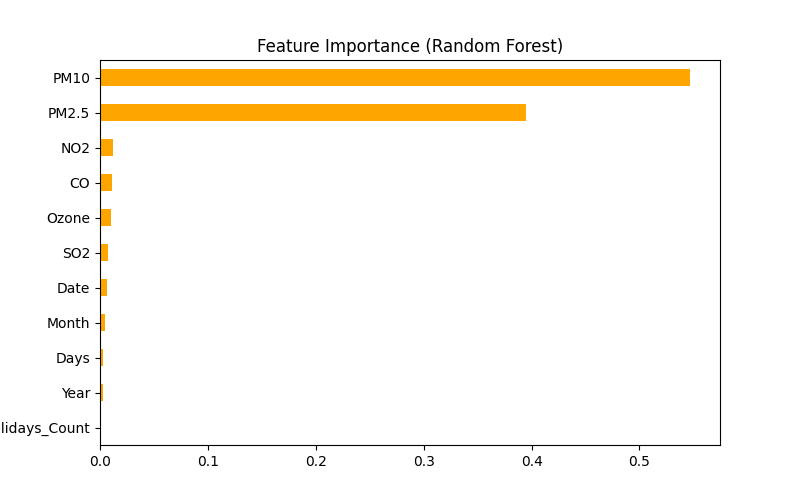
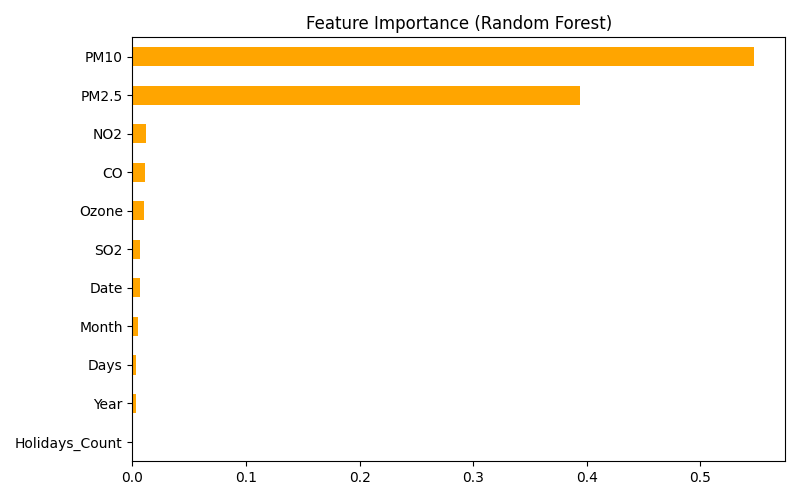
Added visualization saving feature

diff --git a/air quality prediction.py b/air quality prediction.py
@@ -1,5 +1,5 @@
 # --------------------------------------------------------
-# 🌤 AIR QUALITY INDEX (AQI) PREDICTION - Final Version
+# 🌤 AIR QUALITY INDEX (AQI) PREDICTION - Final Enhanced Version
 # --------------------------------------------------------
 
 import pandas as pd
@@ -9,6 +9,9 @@ import seaborn as sns
 from sklearn.model_selection import train_test_split
 from sklearn.ensemble import RandomForestRegressor
 from sklearn.metrics import mean_absolute_error, mean_squared_error, r2_score
+from xgboost import XGBRegressor
+import warnings
+warnings.filterwarnings('ignore')
 
 # -----------------------------
 # STEP 1: Load the Dataset
@@ -45,8 +48,8 @@ plt.show()
 # -----------------------------
 # STEP 4: Feature Selection
 # -----------------------------
-# Features and target
-X = df[['Date', 'Month', 'Year', 'Holidays_Count', 'Days', 'PM2.5', 'PM10', 'NO2', 'SO2', 'CO', 'Ozone']]
+X = df[['Date', 'Month', 'Year', 'Holidays_Count', 'Days',
+        'PM2.5', 'PM10', 'NO2', 'SO2', 'CO', 'Ozone']]
 y = df['AQI']
 
 # -----------------------------
@@ -57,60 +60,112 @@ X_train, X_test, y_train, y_test = train_test_split(
 )
 
 # -----------------------------
-# STEP 6: Train Model
+# STEP 6A: Train Random Forest
 # -----------------------------
-model = RandomForestRegressor(n_estimators=200, random_state=42)
-model.fit(X_train, y_train)
-
-print("\n✅ Model trained successfully!")
-
-# -----------------------------
-# STEP 7: Evaluate Model
-# -----------------------------
-y_pred = model.predict(X_test)
-
-mae = mean_absolute_error(y_test, y_pred)
-rmse = np.sqrt(mean_squared_error(y_test, y_pred))
-r2 = r2_score(y_test, y_pred)
-
-print("\n📈 Model Performance:")
-print(f"MAE  : {mae:.2f}")
-print(f"RMSE : {rmse:.2f}")
-print(f"R²   : {r2:.2f}")
+print("\n🌳 Training Random Forest...")
+rf_model = RandomForestRegressor(n_estimators=200, random_state=42)
+rf_model.fit(X_train, y_train)
+y_pred_rf = rf_model.predict(X_test)
 
 # -----------------------------
-# STEP 8: Visualizations
+# STEP 6B: Train XGBoost Model
 # -----------------------------
-# Instead of only showing plots, also save them
-plt.figure(figsize=(10,6))
-sns.heatmap(df.corr(), annot=True, cmap='coolwarm', fmt=".2f")
-plt.title("Correlation Heatmap of Air Quality Features")
-plt.savefig("assets/heatmap.png")   # ✅ saves image
-plt.show()
+print("\n⚡ Training XGBoost Model...")
+xgb_model = XGBRegressor(
+    n_estimators=300,
+    learning_rate=0.05,
+    max_depth=6,
+    subsample=0.8,
+    colsample_bytree=0.8,
+    random_state=42
+)
+xgb_model.fit(X_train, y_train)
+y_pred_xgb = xgb_model.predict(X_test)
 
-plt.figure(figsize=(8,5))
-plt.scatter(y_test, y_pred, color="teal", alpha=0.7)
-plt.xlabel("Actual AQI")
-plt.ylabel("Predicted AQI")
-plt.title("Actual vs Predicted AQI")
-plt.grid(True)
-plt.savefig("assets/scatter.png")   # ✅ saves image
-plt.show()
+# -----------------------------
+# STEP 7: Model Evaluation
+# -----------------------------
+def evaluate_model(y_true, y_pred, name):
+    mae = mean_absolute_error(y_true, y_pred)
+    rmse = np.sqrt(mean_squared_error(y_true, y_pred))
+    r2 = r2_score(y_true, y_pred)
+    print(f"\n📈 {name} Performance:")
+    print(f"MAE  : {mae:.2f}")
+    print(f"RMSE : {rmse:.2f}")
+    print(f"R²   : {r2:.2f}")
+    return {'Model': name, 'MAE': mae, 'RMSE': rmse, 'R2': r2}
 
-importances = pd.Series(model.feature_importances_, index=X.columns)
+rf_results = evaluate_model(y_test, y_pred_rf, "Random Forest")
+xgb_results = evaluate_model(y_test, y_pred_xgb, "XGBoost")
+
+# Compare results
+results_df = pd.DataFrame([rf_results, xgb_results])
+print("\n🔍 Model Comparison:")
+print(results_df)
+
+# -----------------------------
+# STEP 8: Feature Importance
+# -----------------------------
+importances = pd.Series(rf_model.feature_importances_, index=X.columns)
 importances.sort_values(ascending=True).plot(kind="barh", color="orange", figsize=(8,5))
 plt.title("Feature Importance (Random Forest)")
-plt.savefig("assets/feature_importance.png")   # ✅ saves image
+plt.tight_layout()
+plt.savefig("assets/feature_importance.png")
 plt.show()
 
-# Feature importance
-importances = pd.Series(model.feature_importances_, index=X.columns)
-importances.sort_values(ascending=True).plot(kind="barh", color="orange", figsize=(8, 5))
-plt.title("Feature Importance (Random Forest)")
+# -----------------------------
+# STEP 9: LSTM Time-Series Forecasting
+# -----------------------------
+print("\n⏳ Building LSTM model for time-series AQI forecasting...")
+
+from tensorflow.keras.models import Sequential
+from tensorflow.keras.layers import LSTM, Dense
+from sklearn.preprocessing import MinMaxScaler
+
+# Sort by date if available
+df['Date'] = pd.to_datetime(df['Date'], errors='coerce')
+df = df.dropna(subset=['Date'])
+df = df.sort_values('Date')
+
+scaler = MinMaxScaler()
+scaled_aqi = scaler.fit_transform(df[['AQI']])
+
+def create_sequences(data, seq_length=10):
+    X, y = [], []
+    for i in range(len(data) - seq_length):
+        X.append(data[i:i+seq_length])
+        y.append(data[i+seq_length])
+    return np.array(X), np.array(y)
+
+seq_length = 10
+X_seq, y_seq = create_sequences(scaled_aqi, seq_length)
+split = int(0.8 * len(X_seq))
+X_train_seq, X_test_seq = X_seq[:split], X_seq[split:]
+y_train_seq, y_test_seq = y_seq[:split], y_seq[split:]
+
+# Define LSTM model
+model = Sequential([
+    LSTM(64, activation='relu', input_shape=(seq_length, 1)),
+    Dense(1)
+])
+model.compile(optimizer='adam', loss='mse')
+model.fit(X_train_seq, y_train_seq, epochs=25, batch_size=16, validation_data=(X_test_seq, y_test_seq), verbose=1)
+
+# Predictions
+y_pred_lstm = model.predict(X_test_seq)
+y_pred_lstm = scaler.inverse_transform(y_pred_lstm)
+y_test_inv = scaler.inverse_transform(y_test_seq)
+
+# Plot results
+plt.figure(figsize=(10,5))
+plt.plot(y_test_inv, label='Actual AQI', color='blue')
+plt.plot(y_pred_lstm, label='Predicted AQI (LSTM)', color='red')
+plt.title("LSTM Time-Series AQI Forecasting")
+plt.xlabel("Days")
+plt.ylabel("AQI")
+plt.legend()
+plt.tight_layout()
+plt.savefig("assets/lstm_forecast.png")
 plt.show()
 
-print("\n🎯 Done! Air Quality Prediction Project executed successfully.")
-import matplotlib
-matplotlib.use('TkAgg')  # ensure GUI backend
-plt.show(block=True)
-
+print("\n🎯 Done! Full Air Quality Prediction Pipeline executed successfully — Random Forest, XGBoost, and LSTM models built and compared.")
